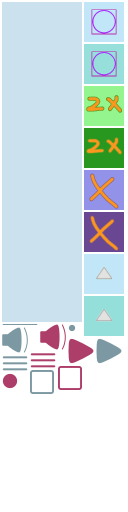
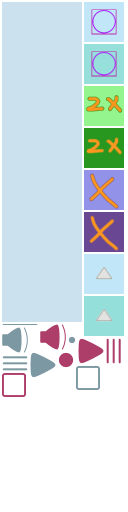
scroll node basic implementation

Changed region(s): [[0.0, 0.625, 0.9688, 0.7812]]

diff --git a/PttrnFlow/PttrnFlow/Generic Nodes/PanNode.m b/PttrnFlow/PttrnFlow/Generic Nodes/PanNode.m
@@ -7,17 +7,132 @@
 //
 
 #import "PanNode.h"
+#import "CCSprite+Utils.h"
+
+@interface PanNode ()
+
+@property (assign) CGPoint lastTouchLocation;
+
+@end
 
 @implementation PanNode
 
-- (id)initWithBatchNode:(CCSpriteBatchNode *)batchNode
+- (id)initWithBatchNode:(CCSpriteBatchNode *)batchNode contentSize:(CGSize)size scrollingSize:(CGSize)scrollingSize scrollSprites:(NSArray *)scrollSprites
 {
     self = [super initWithBatchNode:batchNode];
     if (self) {
+        self.swallowsTouches = YES;
+        self.contentSize = size;
+        self.scrollDirection = ScrollDirectionBoth;
         
+        CCSprite *scrollSurface = [CCSprite spriteWithSpriteFrameName:@"blankRectClear.png"];
+        _scrollSurface = scrollSurface;
+        
+        self.scrollSurface.contentSize = scrollingSize;
+        self.scrollSurface.anchorPoint = ccp(0, 0);
+        
+        for (CCSprite *spr in scrollSprites) {
+            [self.scrollSurface addChild:spr];
+        }
+        [batchNode addChild:self.scrollSurface];
     }
     return self;
 }
 
+- (void)setPosition:(CGPoint)position
+{
+    [super setPosition:position];
+    _scrollSurface.position = position;
+}
+
+- (CGFloat)scrollableDistanceHorizontal
+{
+    return (self.scrollSurface.contentSize.width - self.contentSize.width);
+}
+
+- (CGFloat)scrollableDistanceVertical
+{
+    return (self.scrollSurface.contentSize.height - self.contentSize.height);
+}
+
+- (void)scrollWithTranslation:(CGPoint)translation
+{
+    // correct for one-way movement if needed
+    CGPoint correctedTranslation = translation;
+    switch (self.scrollDirection) {
+        case ScrollDirectionHorizontal:
+            correctedTranslation = ccp(translation.x, 0);
+            break;
+        case ScrollDirectionVertical:
+            correctedTranslation = ccp(0, translation.y);
+        default:
+            break;
+    }
+    
+    // scroll, stopping at edges
+    self.scrollSurface.position = ccp(self.scrollSurface.position.x + correctedTranslation.x, self.scrollSurface.position.y + correctedTranslation.y);
+    
+    CGFloat leftScrollSurfaceEdge = self.position.x - [self scrollableDistanceHorizontal];
+    if (self.scrollSurface.position.x < leftScrollSurfaceEdge) {
+        self.scrollSurface.position = ccp(leftScrollSurfaceEdge, self.scrollSurface.position.y);
+    }
+    CGFloat bottomScrollSurfaceEdge = self.position.y - [self scrollableDistanceHorizontal];
+    if (self.scrollSurface.position.y < bottomScrollSurfaceEdge) {
+        self.scrollSurface.position = ccp(self.scrollSurface.position.x, bottomScrollSurfaceEdge);
+    }
+    if (self.scrollSurface.position.x > self.position.x) {
+        self.scrollSurface.position = ccp(self.position.x, self.scrollSurface.position.y);
+    }
+    if (self.scrollSurface.position.y > self.position.y) {
+        self.scrollSurface.position = ccp(self.scrollSurface.position.x, self.position.y);
+    }
+}
+
+#pragma mark CCTargetedTouchDelegate
+
+- (BOOL)ccTouchBegan:(UITouch *)touch withEvent:(UIEvent *)event
+{
+    if ([super ccTouchBegan:touch withEvent:event]) {
+        self.lastTouchLocation = [self convertTouchToNodeSpace:touch];
+        return YES;
+    }
+    return NO;
+}
+
+- (void)ccTouchMoved:(UITouch *)touch withEvent:(UIEvent *)event
+{
+    [super ccTouchMoved:touch withEvent:event];
+    if ([self.touchNodeDelegate containsTouch:touch]) {
+        CGPoint touchLocation = [self convertTouchToNodeSpace:touch];
+        CGPoint translation = ccp(touchLocation.x - self.lastTouchLocation.x, touchLocation.y - self.lastTouchLocation.y);
+        [self scrollWithTranslation:translation];
+        self.lastTouchLocation = touchLocation;
+    }
+}
+
+//- (void)ccTouchEnded:(UITouch *)touch withEvent:(UIEvent *)event
+//{
+//    if (self.longPressDelay > 0) {
+//        [self unschedule:@selector(longPress:)];
+//    }
+//    self.isReceivingTouch = NO;
+//}
+//
+//- (void)ccTouchCancelled:(UITouch *)touch withEvent:(UIEvent *)event
+//{
+//    if (self.longPressDelay > 0) {
+//        [self unschedule:@selector(longPress:)];
+//    }
+//    self.isReceivingTouch = NO;
+//}
+
+#pragma mark - TouchNodeDelegate
+
+- (BOOL)containsTouch:(UITouch *)touch
+{
+    CGPoint touchPosition = [self convertTouchToNodeSpace:touch];
+    CGRect rect = CGRectMake(0, 0, self.contentSize.width, self.contentSize.height);
+    return (CGRectContainsPoint(rect, touchPosition));
+}
 
 @end

diff --git a/PttrnFlow/PttrnFlow/Layers/SequenceUILayer.m b/PttrnFlow/PttrnFlow/Layers/SequenceUILayer.m
@@ -13,6 +13,7 @@
 #import "CCSprite+Utils.h"
 #import "DragButton.h"
 #import "TextureUtils.h"
+#import "PanNode.h"
 
 static CGFloat const kHandleHeight = 40;
 
@@ -31,17 +32,46 @@ static CGFloat const kHandleHeight = 40;
 {
     self = [super init];
     if (self) {
-        
         // sizes
         CGFloat topBarHeight = 80.0;
         CGFloat yMidRow1 = self.contentSize.height - (topBarHeight / 4);
         CGFloat yMidRow2 = self.contentSize.height - (3 * topBarHeight / 4);
         CGFloat yMidTopBar = self.contentSize.height - (topBarHeight / 2);
+        CGFloat yTopBarBottom = self.contentSize.height - topBarHeight;
         CGSize buttonSize = CGSizeMake(topBarHeight / 2, topBarHeight / 2);
         
         CCSpriteBatchNode *uiBatch = [CCSpriteBatchNode batchNodeWithFile:[kTextureKeyUILayer stringByAppendingString:@".png"]];
         [self addChild:uiBatch];
         self.uiBatchNode = uiBatch;
+        
+        ///////////////////////////////////////
+        // pan node
+        CGSize panNodeSize = CGSizeMake((tickDispatcher.sequenceLength/ 4) * buttonSize.width, topBarHeight);
+        CGSize scrollingContainerSize = CGSizeMake(panNodeSize.width + 200, panNodeSize.height);
+        CGPoint panNodeOrigin = ccp((self.contentSize.width - buttonSize.width) - panNodeSize.width, yTopBarBottom);
+        
+        NSMutableArray *scrollingSprites = [NSMutableArray array];
+        for (int i = 0; i < (tickDispatcher.sequenceLength / 4); i++) {
+            CCSprite *tickDot = [CCSprite spriteWithSpriteFrameName:@"tick_dot_off.png"];
+            tickDot.position = ccp((i * buttonSize.width) + (buttonSize.width / 2), topBarHeight / 2);
+            [scrollingSprites addObject:tickDot];
+        }
+        
+        PanNode *panNode = [[PanNode alloc] initWithBatchNode:uiBatch contentSize:panNodeSize scrollingSize:scrollingContainerSize scrollSprites:[NSArray arrayWithArray:scrollingSprites]];
+        panNode.scrollDirection = ScrollDirectionHorizontal;
+        panNode.position = panNodeOrigin;
+        [self addChild:panNode];
+        
+        // pan node background (temporary)
+        CCSprite *panNodeBkg = [CCSprite spriteWithFile:@"blankRect.png"];
+        panNodeBkg.scaleX = (panNodeSize.width / panNodeBkg.contentSize.width);
+        panNodeBkg.scaleY = (panNodeSize.height / panNodeBkg.contentSize.height);
+        panNodeBkg.color = ccRED;
+        panNodeBkg.opacity = 20;
+        panNodeBkg.position = ccp(panNode.position.x + (panNode.contentSize.width / 2), panNode.position.y + (panNode.contentSize.height / 2));
+        [self addChild:panNodeBkg];
+        
+        ///////////////////////////////////////
         
         // tick dispatcher
         _tickDispatcher = tickDispatcher;
@@ -64,8 +94,6 @@ static CGFloat const kHandleHeight = 40;
 //        TickerControl *tickerControl = [[TickerControl alloc] initWithBatchNode:uiBatch steps:(tickDispatcher.sequenceLength / 4) unitSize:buttonSize];
 //        tickerControl.delegate = tickDispatcher;
 //        [self addChild:tickerControl];
-        
-
         
         // match sequence button
         CCSprite *matchDefault = [CCSprite spriteWithSpriteFrameName:@"speaker_off.png"];

diff --git a/PttrnFlow/PttrnFlow/Utils/CCSprite+Utils.m b/PttrnFlow/PttrnFlow/Utils/CCSprite+Utils.m
@@ -16,13 +16,21 @@
 @implementation CCSprite (Utils)
 
 // solid rectangle sprite
-+ (CCSprite *)rectSpriteWithSize:(CGSize)size color:(ccColor3B)color
+//+ (CCSprite *)rectSpriteWithSize:(CGSize)size color:(ccColor3B)color
+//{
+//    // we need to correct the size for retina ourselves because we are drawing into graphics context
+//    CGSize correctedSize = [SizeUtils correctedSize:size];
+//    NSString *key = [TextureUtils keyForPrimativeWithSize:correctedSize color:color];
+//    UIImage *image = [UIImage imageWithColor:[ColorUtils UIColorFor3B:color] size:correctedSize];
+//    return [CCSprite spriteWithCGImage:image.CGImage key:key];
+//}
+
++ (CCSprite *)rectSpriteWithSize:(CGSize)cgsize color:(ccColor3B)color
 {
-    // we need to correct the size for retina ourselves because we are drawing into graphics context
-    CGSize correctedSize = [SizeUtils correctedSize:size];
-    NSString *key = [TextureUtils keyForPrimativeWithSize:correctedSize color:color];
-    UIImage *image = [UIImage imageWithColor:[ColorUtils UIColorFor3B:color] size:correctedSize];
-    return [CCSprite spriteWithCGImage:image.CGImage key:key];
+    CCSprite *sg = [CCSprite spriteWithFile:@"blankRect.png"];
+    [sg setTextureRect:CGRectMake( 0, 0, cgsize.width, cgsize.height)];
+    sg.color = color;
+    return sg;
 }
 
 // rectangle sprite with defined edges and clear center

diff --git a/PttrnFlow/PttrnFlow/Generic Nodes/GameNode.m b/PttrnFlow/PttrnFlow/Generic Nodes/GameNode.m
@@ -76,7 +76,7 @@
 {
     CGPoint touchPosition = [self convertTouchToNodeSpace:touch];
     
-    NSLog(@"\n\n\n**** **** ****\n---GameNode: %@\n---touch pos: %@\n---spr bounding box: %@\n---contains touch: %i", self, NSStringFromCGPoint(touchPosition), NSStringFromCGRect(self.sprite.boundingBox), CGRectContainsPoint(self.sprite.boundingBox, touchPosition));
+//    NSLog(@"\n\n\n**** **** ****\n---GameNode: %@\n---touch pos: %@\n---spr bounding box: %@\n---contains touch: %i", self, NSStringFromCGPoint(touchPosition), NSStringFromCGRect(self.sprite.boundingBox), CGRectContainsPoint(self.sprite.boundingBox, touchPosition));
     
     return (CGRectContainsPoint(self.sprite.boundingBox, touchPosition));
 }

diff --git a/PttrnFlow/PttrnFlow/Generic Nodes/PanNode.h b/PttrnFlow/PttrnFlow/Generic Nodes/PanNode.h
@@ -8,6 +8,18 @@
 
 #import "GameNode.h"
 
+typedef NS_ENUM(NSInteger, ScrollDirection)
+{
+    ScrollDirectionBoth = 0,
+    ScrollDirectionHorizontal = 1,
+    ScrollDirectionVertical = 2,
+};
+
 @interface PanNode : GameNode
+
+@property (assign) ScrollDirection scrollDirection;
+@property (weak, nonatomic) CCSprite *scrollSurface;
+
+- (id)initWithBatchNode:(CCSpriteBatchNode *)batchNode contentSize:(CGSize)size scrollingSize:(CGSize)scrollingSize scrollSprites:(NSArray *)scrollSprites;
 
 @end
